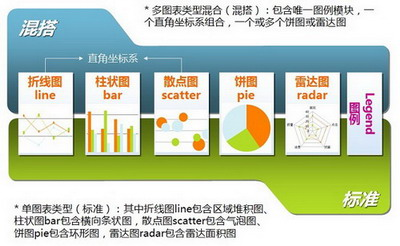
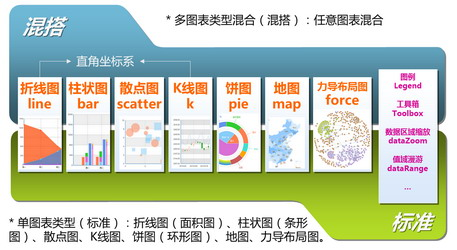
force demo~

diff --git a/src/chart/force.js b/src/chart/force.js
@@ -113,15 +113,23 @@ define(function(require) {
                         }
                     }
 
-                    linkStyle = self.deepQuery([serie], 'itemStyle.normal.linkStyle');
-                    linkEmphasisStyle = self.deepQuery([serie], 'itemStyle.emphasis.linkStyle');
-                    nodeStyle = self.deepQuery([serie], 'itemStyle.normal.nodeStyle');
-                    nodeEmphasisStyle = self.deepQuery([serie], 'itemStyle.emphasis.nodeStyle');
+                    linkStyle = self.deepQuery(
+                        [serie], 'itemStyle.normal.linkStyle'
+                    );
+                    linkEmphasisStyle = self.deepQuery(
+                        [serie], 'itemStyle.emphasis.linkStyle'
+                    );
+                    nodeStyle = self.deepQuery(
+                        [serie], 'itemStyle.normal.nodeStyle'
+                    );
+                    nodeEmphasisStyle = self.deepQuery(
+                        [serie], 'itemStyle.emphasis.nodeStyle'
+                    );
                     
                     _filterData(
-                                zrUtil.clone(self.deepQuery([serie], 'nodes')),
-                                zrUtil.clone(self.deepQuery([serie], 'links'))
-                                );
+                        zrUtil.clone(self.deepQuery([serie], 'nodes')),
+                        zrUtil.clone(self.deepQuery([serie], 'links'))
+                    );
                     // Reset data
                     nodePositions = [];
                     nodePrePositions = [];
@@ -133,9 +141,12 @@ define(function(require) {
                     linkShapes = [];
 
                     var area = viewportWidth * viewportHeight;
-                    var attractiveness = self.deepQuery([serie], 'attractiveness');
+                    var attractiveness = self.deepQuery(
+                        [serie], 'attractiveness'
+                    );
                     // Formula in 'Graph Drawing by Force-directed Placement'
-                    k = 0.5 / attractiveness * Math.sqrt( area / nodesRawData.length );
+                    k = 0.5 / attractiveness 
+                        * Math.sqrt( area / nodesRawData.length );
                     
                     // 这两方法里需要加上读取self.selectedMap判断当前系列是否显示的逻辑
                     _buildLinkShapes(nodesRawData, linksRawData);
@@ -227,22 +238,35 @@ define(function(require) {
                 };
 
                 // Label 
-                if (self.deepQuery([forceSerie], 'itemStyle.normal.label.show')) {
+                var labelStyle;
+                if (self.deepQuery([forceSerie], 'itemStyle.normal.label.show')
+                ) {
                     shape.style.text = node.name;
-                    shape.style.textPosition = 'specific';
-                    shape.style.textColor = self.deepQuery([forceSerie], 'itemStyle.normal.label.textStyle.color') || '#fff';
-                    shape.style.textAlign = self.deepQuery([forceSerie], 'itemStyle.normal.label.textStyle.align') || 'center';
-                    shape.style.textBaseLine = self.deepQuery([forceSerie], 'itemStyle.normal.label.textStyle.baseline') || 'middle';
-                    shape.style.textFont = self.getFont(self.deepQuery([forceSerie], 'itemStyle.normal.label.textStyle'));
+                    shape.style.textPosition = 'inside';
+                    labelStyle = self.deepQuery(
+                        [forceSerie], 'itemStyle.normal.label.textStyle'
+                    ) || {};
+                    shape.style.textColor = labelStyle.color || '#fff';
+                    shape.style.textAlign = labelStyle.align || 'center';
+                    shape.style.textBaseLine = labelStyle.baseline || 'middle';
+                    shape.style.textFont = self.getFont(labelStyle);
                 }
 
-                if (self.deepQuery([forceSerie], 'itemStyle.emphasis.label.show')) {
+                if (self.deepQuery(
+                        [forceSerie], 'itemStyle.emphasis.label.show'
+                    )
+                ) {
                     shape.highlightStyle.text = node.name;
-                    shape.highlightStyle.textPosition = 'specific';
-                    shape.highlightStyle.textColor = self.deepQuery([forceSerie], 'itemStyle.emphasis.label.textStyle.color') || '#fff';
-                    shape.highlightStyle.textAlign = self.deepQuery([forceSerie], 'itemStyle.emphasis.label.textStyle.align') || 'center';
-                    shape.highlightStyle.textBaseLine = self.deepQuery([forceSerie], 'itemStyle.emphasis.label.textStyle.baseline') || 'middle';
-                    shape.highlightStyle.textFont = self.getFont(self.deepQuery([forceSerie], 'itemStyle.emphasis.label.textStyle'));
+                    shape.highlightStyle.textPosition = 'inside';
+                    labelStyle = self.deepQuery(
+                        [forceSerie], 'itemStyle.emphasis.label.textStyle'
+                    ) || {};
+                    shape.highlightStyle.textColor = labelStyle.color || '#fff';
+                    shape.highlightStyle.textAlign = labelStyle.align 
+                                                     || 'center';
+                    shape.highlightStyle.textBaseLine = labelStyle.baseline 
+                                                        || 'middle';
+                    shape.highlightStyle.textFont = self.getFont(labelStyle);
                 }
 
                 // 优先级 node.style > category.style > defaultStyle
@@ -260,9 +284,11 @@ define(function(require) {
                                 });
                             }
                             if (style.emphasis) {
-                                zrUtil.merge(shape.highlightStyle, style.emphasis, {
-                                    overwrite : true
-                                });
+                                zrUtil.merge(
+                                    shape.highlightStyle, 
+                                    style.emphasis, 
+                                    { overwrite : true }
+                                );
                             }
                         }
                     }
@@ -342,9 +368,11 @@ define(function(require) {
                         });
                     }
                     if(link.itemStyle.emphasis){
-                        zrUtil.merge(shape.highlightStyle, link.itemStyle.emphasis, {
-                            overwrite : true
-                        })
+                        zrUtil.merge(
+                            shape.highlightStyle, 
+                            link.itemStyle.emphasis, 
+                            { overwrite : true }
+                        );
                     }
                 }
 
@@ -442,7 +470,9 @@ define(function(require) {
             }
             // 计算加速度
             for (var i = 0, l = nodeAccelerations.length; i < l; i++) {
-                vec2.scale(nodeAccelerations[i], nodeForces[i], 1 / nodeMasses[i]);
+                vec2.scale(
+                    nodeAccelerations[i], nodeForces[i], 1 / nodeMasses[i]
+                );
             }
             var velocity = [];
             var tmp = [];
@@ -463,7 +493,11 @@ define(function(require) {
                 vec2.sub(velocity, p, p_);
                 p_[0] = p[0];
                 p_[1] = p[1];
-                vec2.add(velocity, velocity, vec2.scale(tmp, nodeAccelerations[i], stepTime));
+                vec2.add(
+                    velocity, 
+                    velocity, 
+                    vec2.scale(tmp, nodeAccelerations[i], stepTime)
+                );
                 // Damping
                 vec2.scale(velocity, velocity, temperature);
                 // 防止速度太大

diff --git a/doc/example/force.html b/doc/example/force.html
@@ -69,71 +69,103 @@
                     <textarea id="code" name="code">
 option = {
     tooltip : {
-        trigger: 'item'
+        trigger: 'item',
+        formatter: '{a} : {b}'
     },
     legend: {
-        data:['收入','支出']
+        x: 'left',
+        data:['家人','朋友']
     },
     series : [
         {
             type:'force',
             categories : [
                 {
-                    name: '收入',
+                    name: '人物',
                     itemStyle: {
                         normal: {
-                            brushType : 'both',
-                            color : '#f08c2e',
-                            strokeColor : '#5182ab',
-                            lineWidth : 2
-                        },
-                        emphasis: {
-
+                            color : '#ff7f50'
                         }
                     }
                 },
                 {
-                    name:'支出',
+                    name: '家人',
                     itemStyle: {
                         normal: {
-                            brushType : 'both',
-                            color : '#c5dcf0',
-                            strokeColor : '#5182ab',
-                            lineWidth : 2
+                            color : '#87cdfa'
+                        }
+                    }
+                },
+                {
+                    name:'朋友',
+                    itemStyle: {
+                        normal: {
+                            color : '#9acd32'
                         }
                     }
                 }
             ],
-            minRadius : 5,
-            maxRadius : 10,
-            density : 1.2,
-            nodes:[
-                {category : 0, value : 200},
-                {category : 0, value : 200},
-                {category : 1, value : 200},
-                {category : 1, value : 200},
-                {
-                    value : 300,    //孤立点
-                    category : 1,
-                    name : "Daemon",
-                    itemStyle : {
-                        normal : {
-                            color : '#b10101'
-                        },
-                        emphasis : {
-                            r : 15
+            itemStyle: {
+                normal: {
+                    label: {
+                        show: true,
+                        textStyle: {
+                            color: '#800080'
                         }
+                    },
+                    nodeStyle : {
+                        brushType : 'both',
+                        strokeColor : 'rgba(255,215,0,0.4)',
+                        lineWidth : 8
                     }
+                },
+                emphasis: {
+                    label: {
+                        show: false
+                        // textStyle: null      // 默认使用全局文本样式，详见TEXTSTYLE
+                    },
+                    nodeStyle : {
+                        r: 30
+                    },
+                    linkStyle : {}
                 }
+            },
+            minRadius : 15,
+            maxRadius : 25,
+            density : 1,
+            attractiveness: 1.2,
+            nodes:[
+                {category:0, name: '乔布斯', value : 10},
+                {category:1, name: '丽萨-乔布斯',value : 2},
+                {category:1, name: '保罗-乔布斯',value : 3},
+                {category:1, name: '克拉拉-乔布斯',value : 3},
+                {category:1, name: '劳伦-鲍威尔',value : 7},
+                {category:2, name: '史蒂夫-沃兹尼艾克',value : 5},
+                {category:2, name: '奥巴马',value : 8},
+                {category:2, name: '比尔-盖茨',value : 9},
+                {category:2, name: '乔纳森-艾夫',value : 4},
+                {category:2, name: '蒂姆-库克',value : 4},
+                {category:2, name: '龙-韦恩',value : 1},
             ],
             links : [
-                {source : 0, target : 1, weight : 1},
-                {source : 1, target : 2, weight : 1},
-                {source : 2, target : 3, weight : 1},
-                {source : 3, target : 0, weight : 1}, 
-                {source : 0, target : 2, weight : 1}, 
-                {source : 1, target : 3, weight : 1}, 
-                {source : 1, target : 4, weight : 2}
+                {source : 1, target : 0, weight : 1},
+                {source : 2, target : 0, weight : 2},
+                {source : 3, target : 0, weight : 1},
+                {source : 4, target : 0, weight : 2},
+                {source : 5, target : 0, weight : 3},
+                {source : 6, target : 0, weight : 6},
+                {source : 7, target : 0, weight : 6},
+                {source : 8, target : 0, weight : 1},
+                {source : 9, target : 0, weight : 1},
+                {source : 10, target : 0, weight : 1},
+                {source : 3, target : 2, weight : 1},
+                {source : 6, target : 2, weight : 1},
+                {source : 6, target : 3, weight : 1},
+                {source : 6, target : 4, weight : 1},
+                {source : 6, target : 5, weight : 1},
+                {source : 7, target : 6, weight : 6},
+                {source : 7, target : 3, weight : 1},
+                {source : 9, target : 6, weight : 1}
             ]
         }
     ]

diff --git a/src/config.js b/src/config.js
@@ -448,7 +448,7 @@ define(function() {
                 normal: {
                     // color: 各异,
                     label: {
-                        show: true,
+                        show: false
                         // textStyle: null      // 默认使用全局文本样式，详见TEXTSTYLE
                     },
                     nodeStyle : {
@@ -463,12 +463,11 @@ define(function() {
                 emphasis: {
                     // color: 各异,
                     label: {
+                        show: false
                         // textStyle: null      // 默认使用全局文本样式，详见TEXTSTYLE
                     },
-                    nodeStyle : {
-                    },
-                    linkStyle : {
-                    }
+                    nodeStyle : {},
+                    linkStyle : {}
                 }
             }
         },
